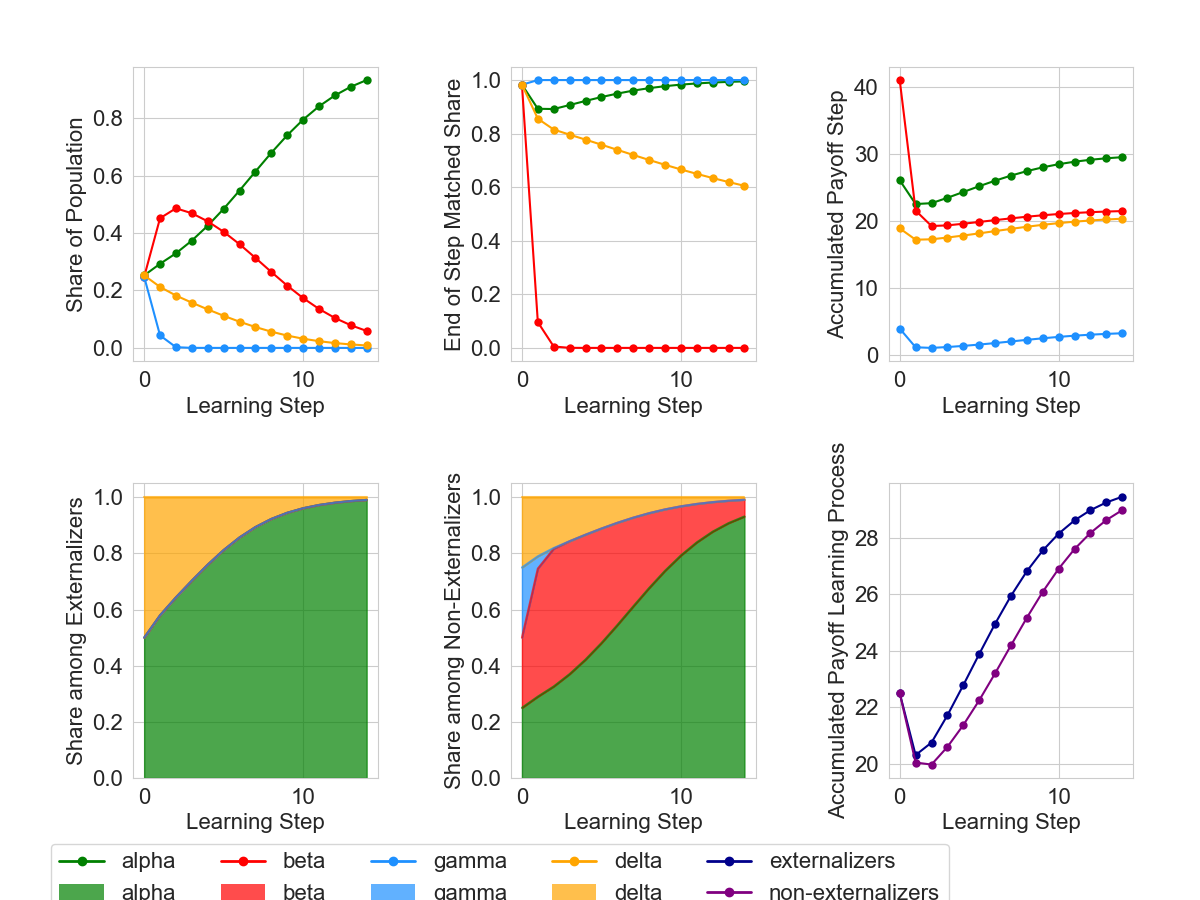
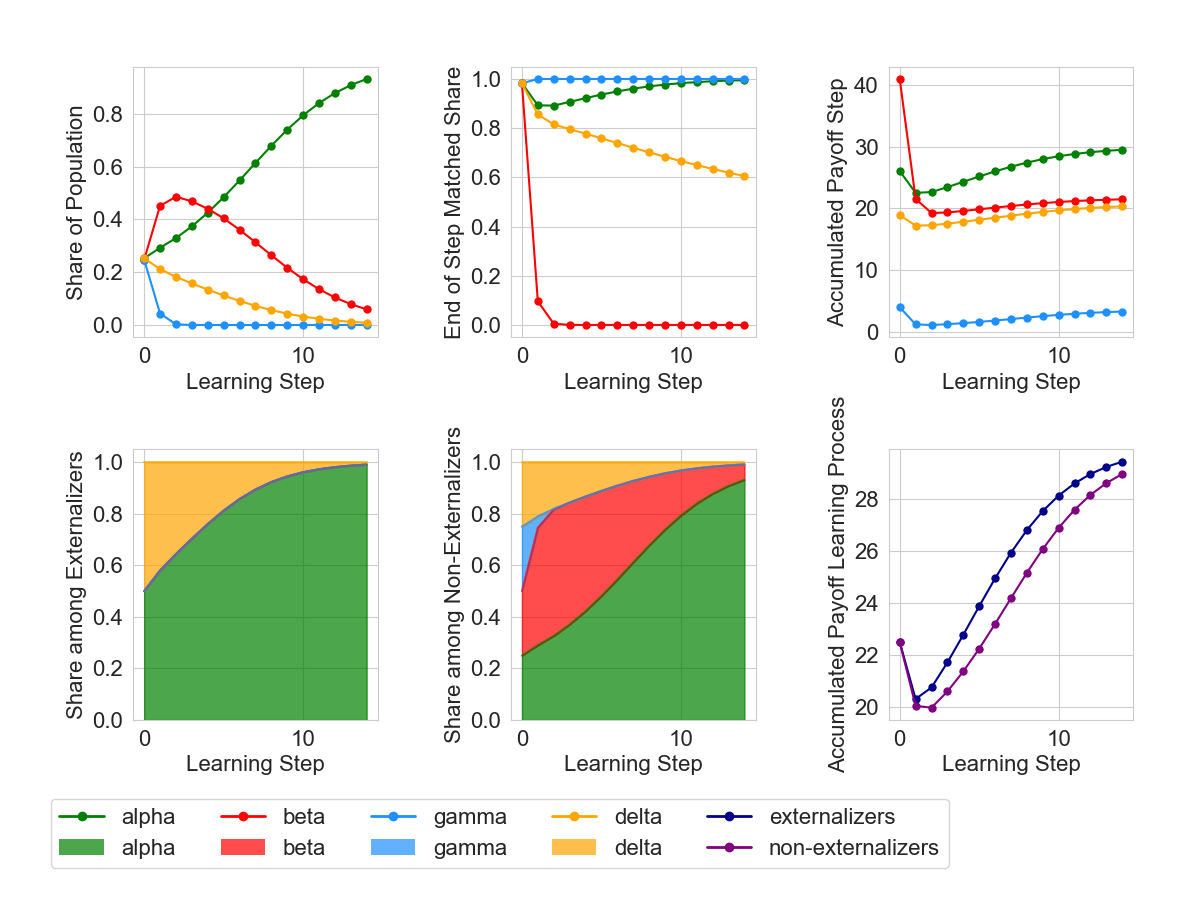
finished fig3

diff --git a/src/visualization.py b/src/visualization.py
@@ -216,23 +216,52 @@ def visualize_learning_process(generation=0):
         handles=[h[0] for h in handles], 
         labels=[h[1] for h in handles],
         ncol=5,
-        bbox_to_anchor=(0.8, 0.075)
+        bbox_to_anchor=(0.8, 0.125)
     )
 
     fig.tight_layout(pad=3.0)
+    plt.subplots_adjust(bottom=0.2)
 
     return fig
+
+def visualize_natural_selection_process():
+    df = read_data()
+
+    visualization_df = pd.DataFrame(columns=["generation", "ext_trait", "share"])
+    ext_traits = ["externalizing", "non-externalizing"]
+
+    for ext in ext_traits:
+        for generation in range(100):
+            share = df.loc[(generation, 0, 0, "shares"), pd.IndexSlice[ext, :, :]].sum()
+            visualization_df.loc[len(visualization_df)] = [generation, ext.replace("ing", "ers"), share]
+
+    sns.set_style("whitegrid")
+    
+    fig, ax = plt.subplots()  # Create a figure and an axes object
+    sns.lineplot(data=visualization_df, x="generation", y="share", hue="ext_trait", 
+                        marker='o', palette=COLOR_DICT, markeredgewidth=0, ax=ax)  # Pass ax to seaborn
+
+    ax.set_xlabel("Learning Step")  # Set labels on the axes, not on the figure
+    ax.set_ylabel("Share of Population")
+    ax.legend(title=None)  # Remove legend title
+
+
+    return fig
+
 
 if __name__ == "__main__":
     file_dir = os.path.dirname(os.path.realpath(__file__))
 
-    fig = visualize_interaction_process(
+    fig1 = visualize_interaction_process(
         generation=0,
         learning_step=0
     )
-    fig.savefig(file_dir+"/../plots/fig1.png")
+    fig1.savefig(file_dir+"/../plots/fig1.png")
 
-    fig = visualize_learning_process(
+    fig2 = visualize_learning_process(
         generation=0
     )
-    fig.savefig(file_dir+"/../plots/fig2.png")
+    fig2.savefig(file_dir+"/../plots/fig2.png")
+
+    fig3 = visualize_natural_selection_process()
+    fig3.savefig(file_dir+"/../plots/fig3.png")
